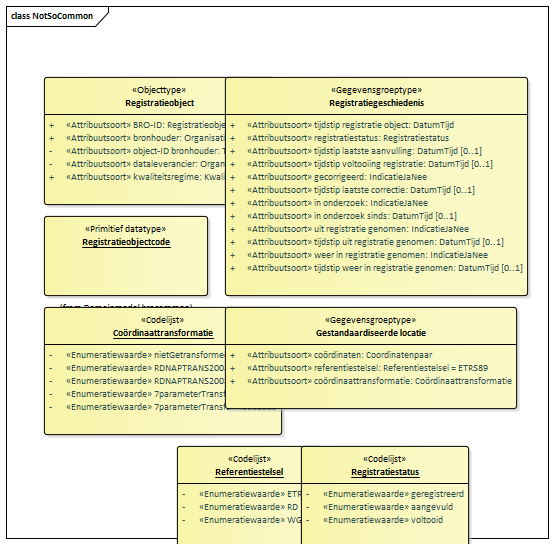
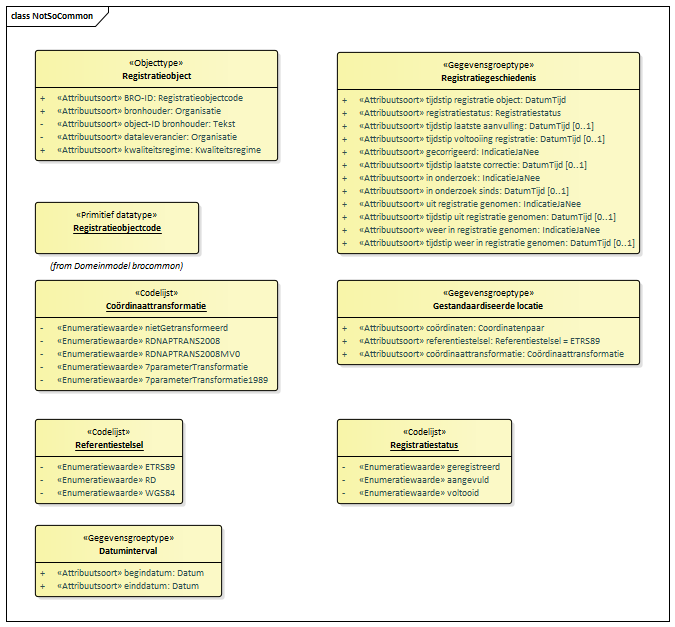
Conceptualmodel-brocommonconceptueelMIM-1.0-1-20191209-20191209-125727

diff --git a/data/EPL-cat.msword.html b/data/EPL-cat.msword.html
@@ -13,7 +13,7 @@
    <body>
       <p>Conceptual model/brocommon conceptueel MIM/20191209</p>
       <p>Imvertor: 1.56.2</p>
-      <p>Model release: Conceptualmodel-brocommonconceptueelMIM-1.0-1-20191209-20191209-112621</p>
+      <p>Model release: Conceptualmodel-brocommonconceptueelMIM-1.0-1-20191209-20191209-125727</p>
       <hr>
       <section>
          <h1>Artikel 1 Definitie van registratieobject, entiteiten en attributen</h1>
@@ -54,7 +54,81 @@
          </section>
          <section>
             <h2>Entiteiten en attributen</h2>
-            <section id=""><a class="anchor" id="graph_EAID_D3997E8C_3F03_4380_9426_82CEDA1A24A6"></a><section id="global_class_DomeinmodelBrocommon_GestandaardiseerdeLocatie">
+            <section id=""><a class="anchor" id="graph_EAID_42468102_48FA_417d_B6D7_3BA469C87528"></a><section id="global_class_DomeinmodelBrocommon_Datuminterval">
+                  <h3>   Datuminterval</h3>
+                  <table style="width: 100%;">
+                     <colgroup style="width: 30%;"></colgroup>
+                     <colgroup style="width: 70%;"></colgroup>
+                     <tbody>
+                        <tr>
+                           <th>Type gegeven</th>
+                           <td>Entiteit</td>
+                        </tr>
+                     </tbody>
+                  </table>
+                  <section id="detail_attribute_DomeinmodelBrocommon_Datuminterval_begindatum">
+                     <h4>  begindatum</h4>
+                     
+                     <table style="width: 100%;">
+                        <colgroup style="width: 30%;"></colgroup>
+                        <colgroup style="width: 70%;"></colgroup>
+                        <tbody>
+                           <tr>
+                              <th>Type gegeven</th>
+                              <td>Attribuut van Datuminterval</td>
+                           </tr>
+                           <tr>
+                              <th>Juridische status</th>
+                              <td>Authentiek</td>
+                           </tr>
+                           <tr>
+                              <th>Kardinaliteit</th>
+                              <td>1</td>
+                           </tr>
+                           <tr>
+                              <th>Domein</th>
+                              <td></td>
+                           </tr>
+                           <tr>
+                              <th>&nbsp;&nbsp;Naam</th>
+                              <td>Datum</td>
+                           </tr>
+                        </tbody>
+                     </table>
+                     
+                  </section>
+                  <section id="detail_attribute_DomeinmodelBrocommon_Datuminterval_einddatum">
+                     <h4>  einddatum</h4>
+                     
+                     <table style="width: 100%;">
+                        <colgroup style="width: 30%;"></colgroup>
+                        <colgroup style="width: 70%;"></colgroup>
+                        <tbody>
+                           <tr>
+                              <th>Type gegeven</th>
+                              <td>Attribuut van Datuminterval</td>
+                           </tr>
+                           <tr>
+                              <th>Juridische status</th>
+                              <td>Authentiek</td>
+                           </tr>
+                           <tr>
+                              <th>Kardinaliteit</th>
+                              <td>1</td>
+                           </tr>
+                           <tr>
+                              <th>Domein</th>
+                              <td></td>
+                           </tr>
+                           <tr>
+                              <th>&nbsp;&nbsp;Naam</th>
+                              <td>Datum</td>
+                           </tr>
+                        </tbody>
+                     </table>
+                     
+                  </section>
+               </section><a class="anchor" id="graph_EAID_D3997E8C_3F03_4380_9426_82CEDA1A24A6"></a><section id="global_class_DomeinmodelBrocommon_GestandaardiseerdeLocatie">
                   <h3>   Gestandaardiseerde locatie</h3>
                   <table style="width: 100%;">
                      <colgroup style="width: 30%;"></colgroup>
